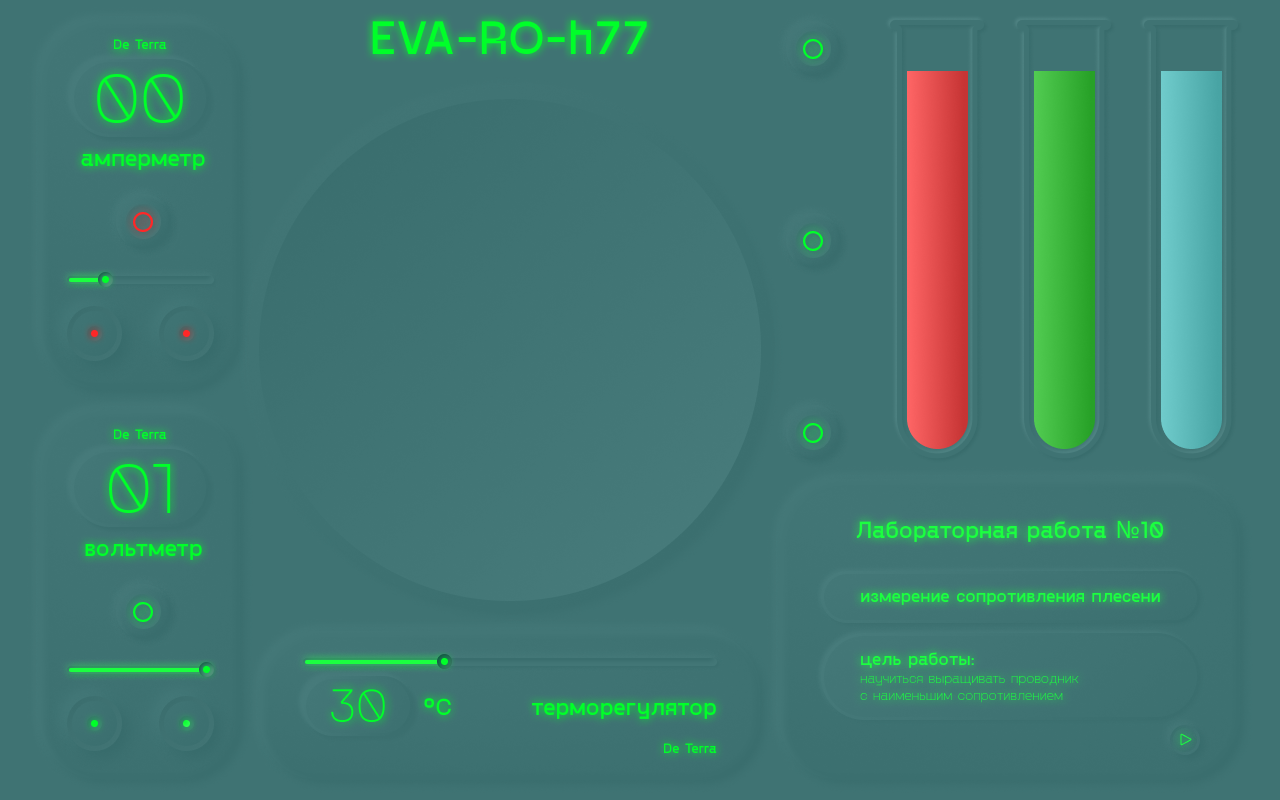
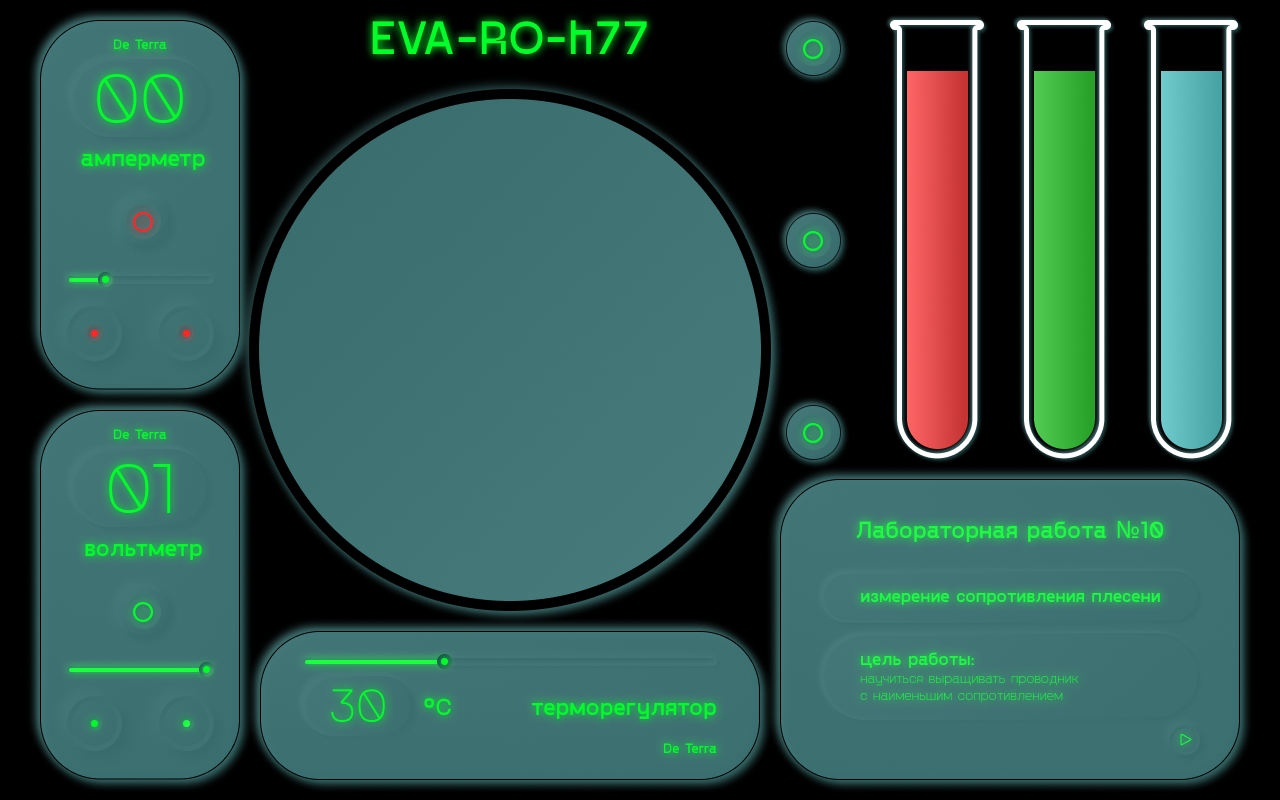
main

diff --git a/stylesheets/index.css b/stylesheets/index.css
@@ -2,7 +2,7 @@ body {
   width: 1280px;
   margin: 0;
   padding: 0;
-  background: #2F2D2D;
+  background: #3F7373;
   position: relative;
   height: 800px;
 }
@@ -10,4 +10,15 @@ html {
   background: #bbb;
   position: relative;
   height: 100%;
+}
+#main {
+  
+}
+.device {
+  width: 228px;
+  height: 396px;
+  display: inline-block;
+  position: relative;
+  background-size: contain;
+  background: url('../images/av-body_1280_800.svg');
 }

diff --git a/index.html b/index.html
@@ -26,6 +26,10 @@
     </script>
   </head>
   <body>
+    <div id="main">
+      <div id="ampermetr" class="device"></div>
+      <div id="voltmetr" class="device"></div>
+    </div>
 
   </body>
 </html>
